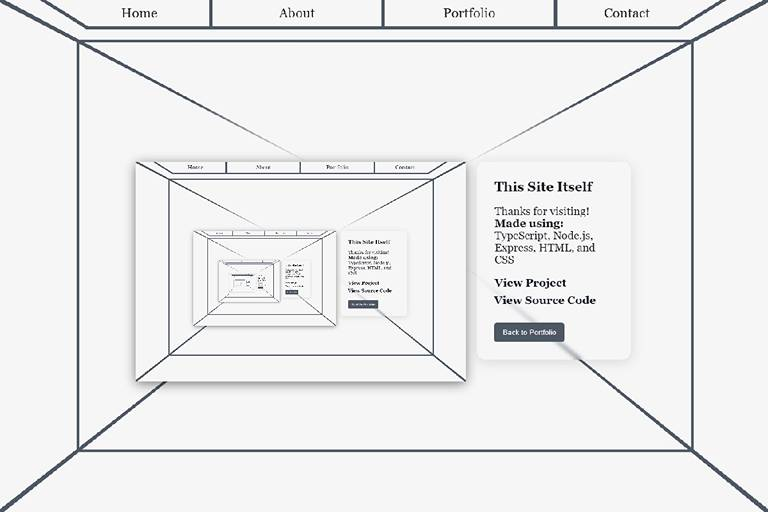
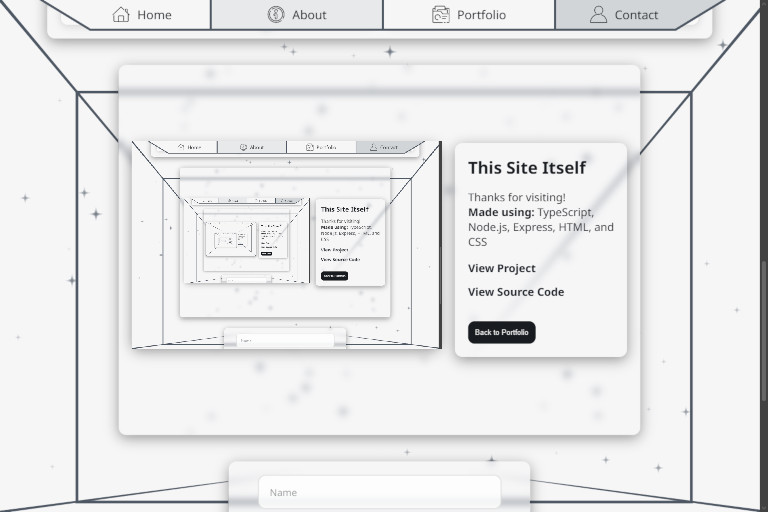
fix: dust to stars, mobile count difference

diff --git a/public/main.js b/public/main.js
@@ -203,7 +203,9 @@ function positionContent(posX, posY) {
 //╚══════════════════════════════════════╝
 function initDustParticles() {
     dustParticles = [];
-    const count = 60;
+    let count = 80;
+    if (mobileMode)
+        count = 40;
     for (let i = 0; i < count; i++) {
         const x = cWidth * 0.05 + Math.random() * cWidth * 0.9;
         const y = cHeight * 0.05 + Math.random() * cHeight * 0.9;
@@ -215,7 +217,7 @@ function initDustParticles() {
             y,
             offsetX: 0,
             offsetY: 0,
-            radius: depth * 3 + 1,
+            radius: depth * 4 + 1,
             alpha: depth,
             wobblePhase: Math.random() * Math.PI * 2,
             wobbleSpeed: 0.0012 + Math.random() * 0.0018,
@@ -298,15 +300,26 @@ function drawDustCanvas() {
     const gbX = mobileMode ? cWidth / 2 : lastPosX;
     const gbY = mobileMode ? cHeight / 2 : lastPosY;
     drawGlassbox(gbX, gbY, glassboxCanvas);
-    // Overlay blurry dust specks using radial gradients
+    // Overlay blurry stars using radial gradients
     for (const p of dustParticles) {
         const r = p.radius * 3.5;
-        const grad = ctx.createRadialGradient(p.x, p.y, r * 0.4, p.x, p.y, r);
+        const innerR = r * 0.25;
+        const grad = ctx.createRadialGradient(p.x, p.y, innerR * 0.1, p.x, p.y, r);
         grad.addColorStop(0, `rgba(78, 88, 100, ${p.alpha})`);
         grad.addColorStop(0.45, `rgba(78, 88, 100, ${p.alpha * 0.35})`);
         grad.addColorStop(1, `rgba(78, 88, 100, 0)`);
         ctx.beginPath();
-        ctx.arc(p.x, p.y, r, 0, Math.PI * 2);
+        for (let i = 0; i < 8; i++) {
+            const angle = (i * Math.PI) / 4 - Math.PI / 2;
+            const rad = i % 2 === 0 ? r : innerR;
+            const px = p.x + Math.cos(angle) * rad;
+            const py = p.y + Math.sin(angle) * rad;
+            if (i === 0)
+                ctx.moveTo(px, py);
+            else
+                ctx.lineTo(px, py);
+        }
+        ctx.closePath();
         ctx.fillStyle = grad;
         ctx.fill();
     }
@@ -421,7 +434,8 @@ function setNavSize() {
     const backdrop = document.getElementById("nav-backdrop");
     backdrop.style.left = navButtonWidth / 2 + "px";
     backdrop.style.width = navButtonWidth * 3 + "px";
-    backdrop.style.height = navButtonHeight + "px";
+    backdrop.style.height = navButtonHeight - lineWidth + "px";
+    backdrop.style.backgroundColor = dColor;
     drawNav(viewportRef.clientWidth / 2, viewportRef.clientHeight / 2);
 }
 function positionNav(posX) {

diff --git a/public/main.ts b/public/main.ts
@@ -264,7 +264,8 @@ function positionContent(posX: number, posY: number) {
 //╚══════════════════════════════════════╝
 function initDustParticles() {
     dustParticles = [];
-    const count = 60;
+    let count = 80;
+    if (mobileMode) count = 40;
     for (let i = 0; i < count; i++) {
         const x = cWidth * 0.05 + Math.random() * cWidth * 0.9;
         const y = cHeight * 0.05 + Math.random() * cHeight * 0.9;
@@ -276,7 +277,7 @@ function initDustParticles() {
             y,
             offsetX: 0,
             offsetY: 0,
-            radius: depth * 3 + 1,
+            radius: depth * 4 + 1,
             alpha: depth,
             wobblePhase: Math.random() * Math.PI * 2,
             wobbleSpeed: 0.0012 + Math.random() * 0.0018,
@@ -374,15 +375,24 @@ function drawDustCanvas() {
     const gbY = mobileMode ? cHeight / 2 : lastPosY;
     drawGlassbox(gbX, gbY, glassboxCanvas);
 
-    // Overlay blurry dust specks using radial gradients
+    // Overlay blurry stars using radial gradients
     for (const p of dustParticles) {
         const r = p.radius * 3.5;
-        const grad = ctx.createRadialGradient(p.x, p.y, r * 0.4, p.x, p.y, r);
+        const innerR = r * 0.25;
+        const grad = ctx.createRadialGradient(p.x, p.y, innerR * 0.1, p.x, p.y, r);
         grad.addColorStop(0, `rgba(78, 88, 100, ${p.alpha})`);
         grad.addColorStop(0.45, `rgba(78, 88, 100, ${p.alpha * 0.35})`);
         grad.addColorStop(1, `rgba(78, 88, 100, 0)`);
         ctx.beginPath();
-        ctx.arc(p.x, p.y, r, 0, Math.PI * 2);
+        for (let i = 0; i < 8; i++) {
+            const angle = (i * Math.PI) / 4 - Math.PI / 2;
+            const rad = i % 2 === 0 ? r : innerR;
+            const px = p.x + Math.cos(angle) * rad;
+            const py = p.y + Math.sin(angle) * rad;
+            if (i === 0) ctx.moveTo(px, py);
+            else ctx.lineTo(px, py);
+        }
+        ctx.closePath();
         ctx.fillStyle = grad;
         ctx.fill();
     }
@@ -516,7 +526,8 @@ function setNavSize() {
     const backdrop = document.getElementById("nav-backdrop") as HTMLDivElement;
     backdrop.style.left = navButtonWidth / 2 + "px";
     backdrop.style.width = navButtonWidth * 3 + "px";
-    backdrop.style.height = navButtonHeight + "px";
+    backdrop.style.height = navButtonHeight - lineWidth + "px";
+    backdrop.style.backgroundColor = dColor;
 
     drawNav(viewportRef.clientWidth / 2, viewportRef.clientHeight / 2);
 }